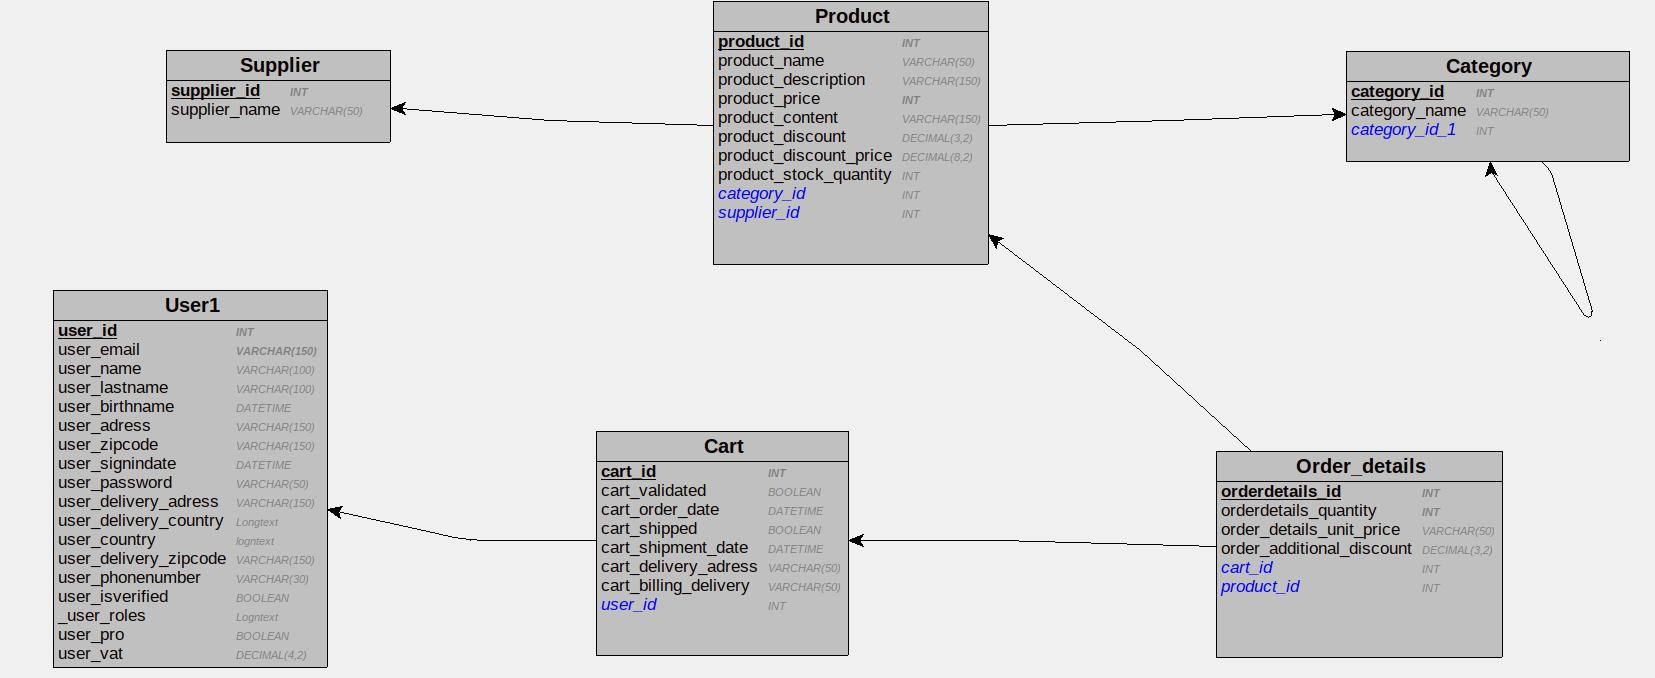
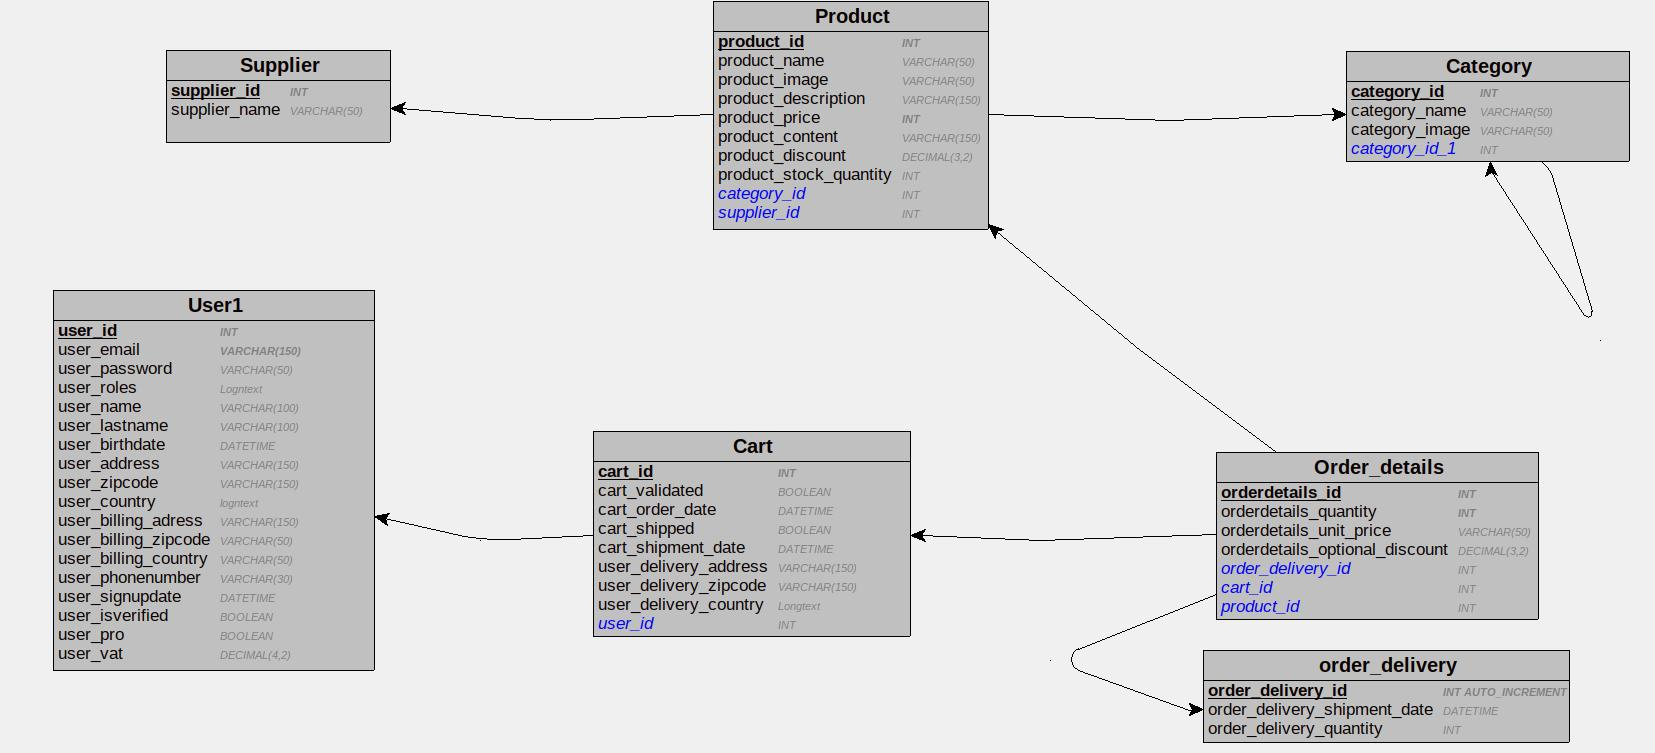
Fil

diff --git a/Fil Rouge/DDD_MLD_MCD.md b/Fil Rouge/DDD_MLD_MCD.md
@@ -52,7 +52,6 @@ Codification | Type | Contraintes | Règles
  product_price | INT
  product_content | VARCHAR(150)
  product_discount | DECIMAL(3,2)
- product_discount_price | DECIMAL(8,2)
  product_stock_quantity | INT | > 0 
 
 
@@ -89,17 +88,19 @@ Codification | Type | Contraintes | Règles
 
 # MLD
 ```sql
-user = (user_id INT, user_email VARCHAR(150) , user_name VARCHAR(100) , user_lastname VARCHAR(100) , user_birthname DATETIME, user_adress VARCHAR(150) , user_zipcode VARCHAR(150) , user_signindate DATETIME, user_password VARCHAR(50) , user_delivery_adress VARCHAR(150) , user_delivery_country Longtext, user_country Longtext, user_delivery_zipcode VARCHAR(150) , user_phonenumber VARCHAR(30) , user_isverified BOOLEAN, _user_roles Longtext , user_pro BOOLEAN, user_vat DECIMAL(4,2)  );
+user = (user_id INT, user_email VARCHAR(150) , user_password VARCHAR(50) , user_roles longtext , user_name VARCHAR(100) , user_lastname VARCHAR(100) , user_birthdate DATETIME, user_address VARCHAR(150) , user_zipcode VARCHAR(150) , user_country Longtext, user_billing_adress VARCHAR(150) , user_billing_zipcode VARCHAR(50) , user_billing_country VARCHAR(50) , user_phonenumber VARCHAR(30) , user_signupdate DATETIME, user_isverified BOOLEAN, user_pro BOOLEAN, user_vat DECIMAL(4,2)  );
 
 supplier = (supplier_id INT, supplier_name VARCHAR(50) );
 
-category = (category_id INT, category_name VARCHAR(50) , #category_parent_id*);
+category = (category_id INT, category_name VARCHAR(50) , category_image VARCHAR(50) , #category_parent_id*);
 
-cart = (cart_id INT, cart_validated BOOLEAN, cart_order_date DATETIME, cart_shipped BOOLEAN, cart_shipment_date DATETIME, cart_delivery_adress VARCHAR(50) , cart_billing_delivery VARCHAR(50) , #user_id*);
+cart = (cart_id INT, cart_validated BOOLEAN, cart_order_date DATETIME, cart_shipped BOOLEAN, cart_shipment_date DATETIME, user_delivery_address VARCHAR(150) , user_delivery_zipcode VARCHAR(150) , user_delivery_country Longtext, #user_id*);
 
-product = (product_id INT, product_name VARCHAR(50) , product_description VARCHAR(150) , product_price INT, product_content VARCHAR(150) , product_discount DECIMAL(3,2)  , product_discount_price DECIMAL(8,2)  , product_stock_quantity INT, #category_id*, #supplier_id*);
+order_delivery = (order_delivery_id INT AUTO_INCREMENT, order_delivery_shipment_date DATETIME, order_delivery_quantity INT);
 
-order_details = (orderdetails_id INT, orderdetails_quantity INT, order_details_unit_price VARCHAR(50) , order_additional_discount DECIMAL(3,2)  , #cart_id*, #product_id*);
+product = (product_id INT, product_name VARCHAR(50) , product_image VARCHAR(50) , product_description VARCHAR(150) , product_price INT, product_content VARCHAR(150) , product_discount DECIMAL(3,2)  , product_stock_quantity INT, #category_id*, #supplier_id*);
+
+order_details = (orderdetails_id INT, orderdetails_quantity INT, orderdetails_unit_price VARCHAR(50) , orderdetails_optional_discount DECIMAL(3,2)  , #order_delivery_id*, #cart_id*, #product_id*);
 ```
 <img src="MLD.jpg">
 
@@ -107,69 +108,79 @@ order_details = (orderdetails_id INT, orderdetails_quantity INT, order_details_u
 # Script SQL
 ```sql
 CREATE TABLE user(
-   user_id INT PRIMARY KEY,
+   user_id INT AUTO INCREMENT PRIMARY KEY,
    user_email VARCHAR(150)  NOT NULL,
+   user_password VARCHAR(50),
+   user_roles longtext,
    user_name VARCHAR(100),
    user_lastname VARCHAR(100),
-   user_birthname DATETIME,
-   user_adress VARCHAR(150),
+   user_birthdate DATETIME,
+   user_address VARCHAR(150),
    user_zipcode VARCHAR(150),
-   user_signindate DATETIME,
-   user_password VARCHAR(50),
-   user_delivery_adress VARCHAR(150),
-   user_delivery_country Longtext,
    user_country longtext,
-   user_delivery_zipcode VARCHAR(150),
+   user_billing_adress VARCHAR(150),
+   user_billing_zipcode VARCHAR(50),
+   user_billing_country VARCHAR(50),
    user_phonenumber VARCHAR(30),
+   user_signupdate DATETIME,
    user_isverified BOOLEAN,
-   user_roles Longtext,
    user_pro BOOLEAN,
    user_vat DECIMAL(4,2)
 );
 
 CREATE TABLE supplier(
-   supplier_id INT PRIMARY KEY,
+   supplier_id INT AUTO INCREMENT PRIMARY KEY,
    supplier_name VARCHAR(50)
 );
 
 CREATE TABLE category(
-   category_id INT PRIMARY KEY,
+   category_id INT AUTO INCREMENT PRIMARY KEY,
+   category_parent_id INT REFERENCES category(category_id),
    category_name VARCHAR(50),
-   category_parent_id INT REFERENCES category(category_id)
+   category_image VARCHAR(50)
 );
 
 CREATE TABLE cart(
-   cart_id INT PRIMARY KEY,
+   cart_id INT AUTO INCREMENT PRIMARY KEY,
    user_id INT REFERENCES user(user_id),
    cart_validated BOOLEAN,
    cart_order_date DATETIME,
    cart_shipped BOOLEAN,
    cart_shipment_date DATETIME,
-   cart_delivery_adress VARCHAR(50),
-   cart_billing_delivery VARCHAR(50)
+   user_delivery_address VARCHAR(150),
+   user_delivery_zipcode VARCHAR(150),
+   user_delivery_country Longtext
+);
+
+CREATE TABLE order_delivery(
+   order_delivery_id INT AUTO INCREMENT PRIMARY KEY,
+   order_delivery_shipment_date DATETIME,
+   order_delivery_quantity INT,
 );
 
 CREATE TABLE product(
-   product_id INT PRIMARY KEY,
-   category_id INT REFERENCES supplier(supplier_id),
+   product_id INT AUTO INCREMENT PRIMARY KEY,
+   category_id INT REFERENCES category(category_id),
    supplier_id INT REFERENCES supplier(supplier_id),
    product_name VARCHAR(50),
+   product_image VARCHAR(50),
    product_description VARCHAR(150),
    product_price INT NOT NULL,
    product_content VARCHAR(150),
    product_discount DECIMAL(3,2) ,
-   product_discount_price DECIMAL(8,2) ,
    product_stock_quantity INT
 );
 
 CREATE TABLE order_details(
-   orderdetails_id INT PRIMARY KEY,
-   product_id INT REFERENCES product(product_id),
+   orderdetails_id INT AUTO INCREMENT PRIMARY KEY,
    cart_id INT REFERENCES cart(cart_id),
+   product_id INT REFERENCES product(product_id),
    orderdetails_quantity INT NOT NULL,
-   order_details_unit_price VARCHAR(50),
-   order_additional_discount DECIMAL(3,2)
+   orderdetails_unit_price VARCHAR(50),
+   orderdetails_optional_discount DECIMAL(3,2)  ,
+   order_delivery_id INT REFERENCES order_delivery(order_delivery_id)
 );
+
 ```
 
 # MCD

diff --git a/Exos/1-Persistance_de_données/3-Developper_composants_d_acces/5-Les_declencheurs/Exercices.md b/Exos/1-Persistance_de_données/3-Developper_composants_d_acces/5-Les_declencheurs/Exercices.md
@@ -12,25 +12,35 @@ ALTER TABLE nom_table ENGINE=InnoDB;
 
 ```sql
 CREATE TABLE articles_a_commander (
-  codart VARVARCHAR(4) REFERENCES produit(codart),
+  codart VARCHAR(4) REFERENCES produit(codart),
   date DATETIME,
   qte INT
 );
 
 
 -- Créer un déclencheur UPDATE sur la table produit : lorsque le stock physique devient inférieur ou égal au stock d'alerte, une nouvelle ligne est insérée dans la table ARTICLES_A_COMMANDER.
-CREATE OR REPLACE TRIGGER commander AFTER UPDATE ON produit
+
+
+
+DELIMITER //
+
+CREATE TRIGGER commander AFTER UPDATE ON produit
 FOR EACH ROW
 BEGIN
   DECLARE new_qte INT;
-  IF NEW.stkphy < NEW.stkale THEN
     SET new_qte = (
-      SELECT sum(qte) FROM articles_a_commander
-      WHERE codart = NEW.codart
+    SELECT sum(qte) FROM articles_a_commander
+    WHERE codart = NEW.codart
     );
-    SET new_qte = (NEW.stkale-NEW.stkphy-new_qte);
-    INSERT INTO articles_a_commander (codart, qte) VALUES (NEW.codart, new_qte);
+  IF NEW.stkphy < NEW.stkale 
+    THEN
+        IF new_qte IS NULL
+            THEN
+                SET new_qte = 0;
+        END IF;
+    INSERT INTO articles_a_commander (codart, qte) VALUES (NEW.codart, NEW.stkale - NEW.stkphy - new_qte);
   END IF;
-
 END //
+
+DELIMITER ;
 ```
